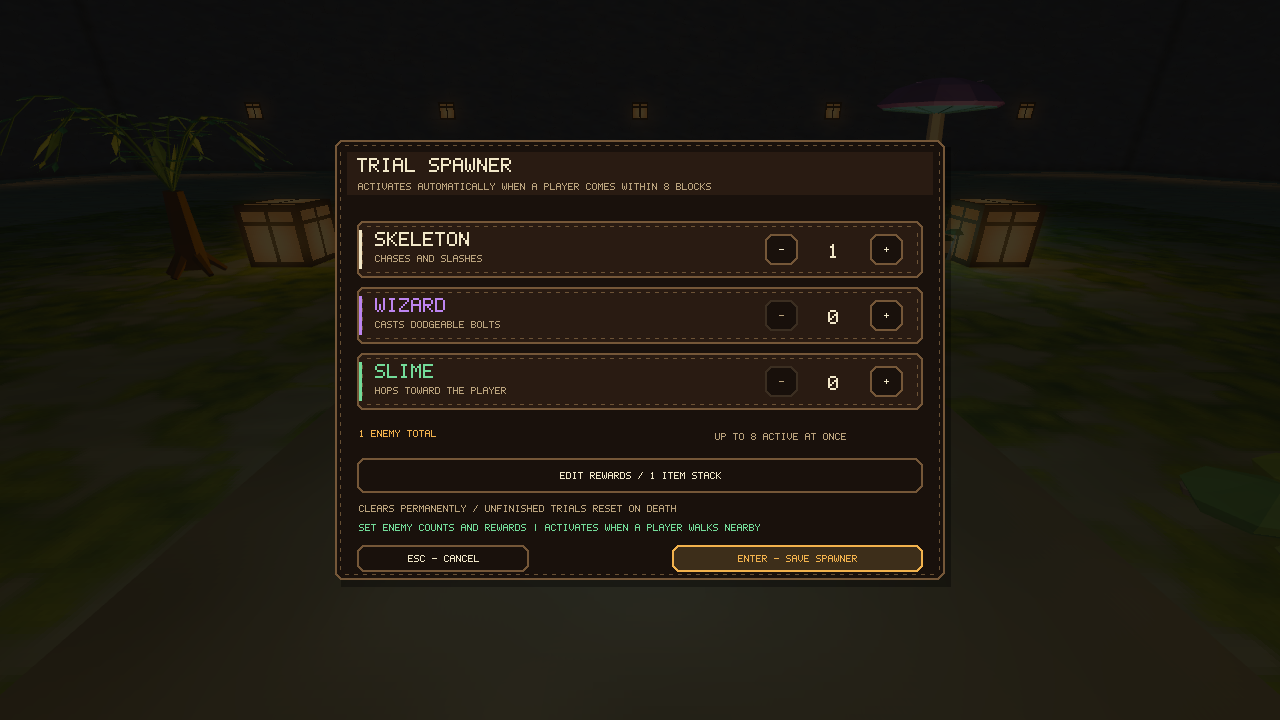
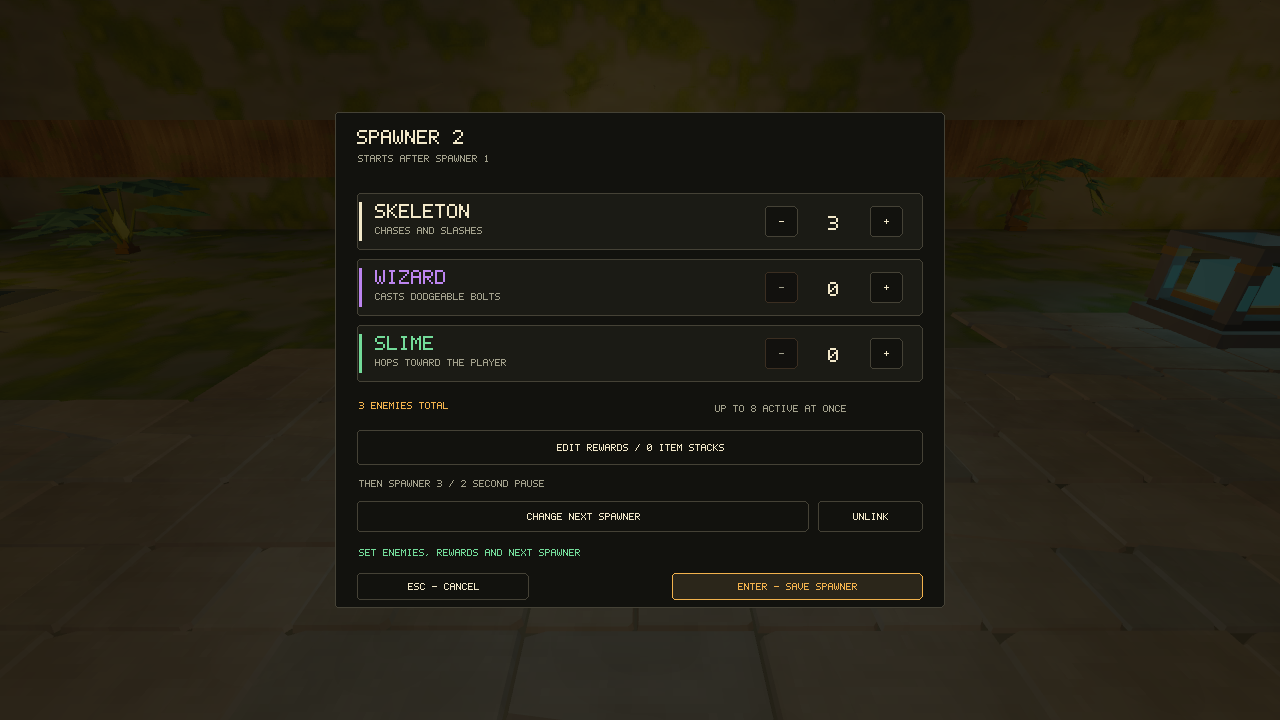
Refresh the spawner guide screenshot with chain controls

diff --git a/docs/building.md b/docs/building.md
@@ -154,7 +154,7 @@ Choose **Trial spawner** from the Assets tab and place it on a floor. Leave seve
 2. Open **Rewards** and choose the item stacks it should release, just as you would for a chest.
 3. Save the rewards, then save the spawner settings. Cancel discards the draft settings; undo restores the previous configuration.
 
-![Choosing enemy counts and reward items for a Trial spawner](screenshots/spawner-settings.png)
+![Configuring a linked Trial spawner, with enemies, rewards, and its next encounter](screenshots/spawner-settings.png)
 
 In play, approaching within eight blocks with a clear view activates a standalone spawner or the first spawner in a chain. Enemies appear gradually, with at most eight alive at once. The sword is tool **4**; aim and left click to swing. Skeletons slash at close range, slimes leap, and wizards throw slow spells. Solid walls and scenery block attacks.
 
